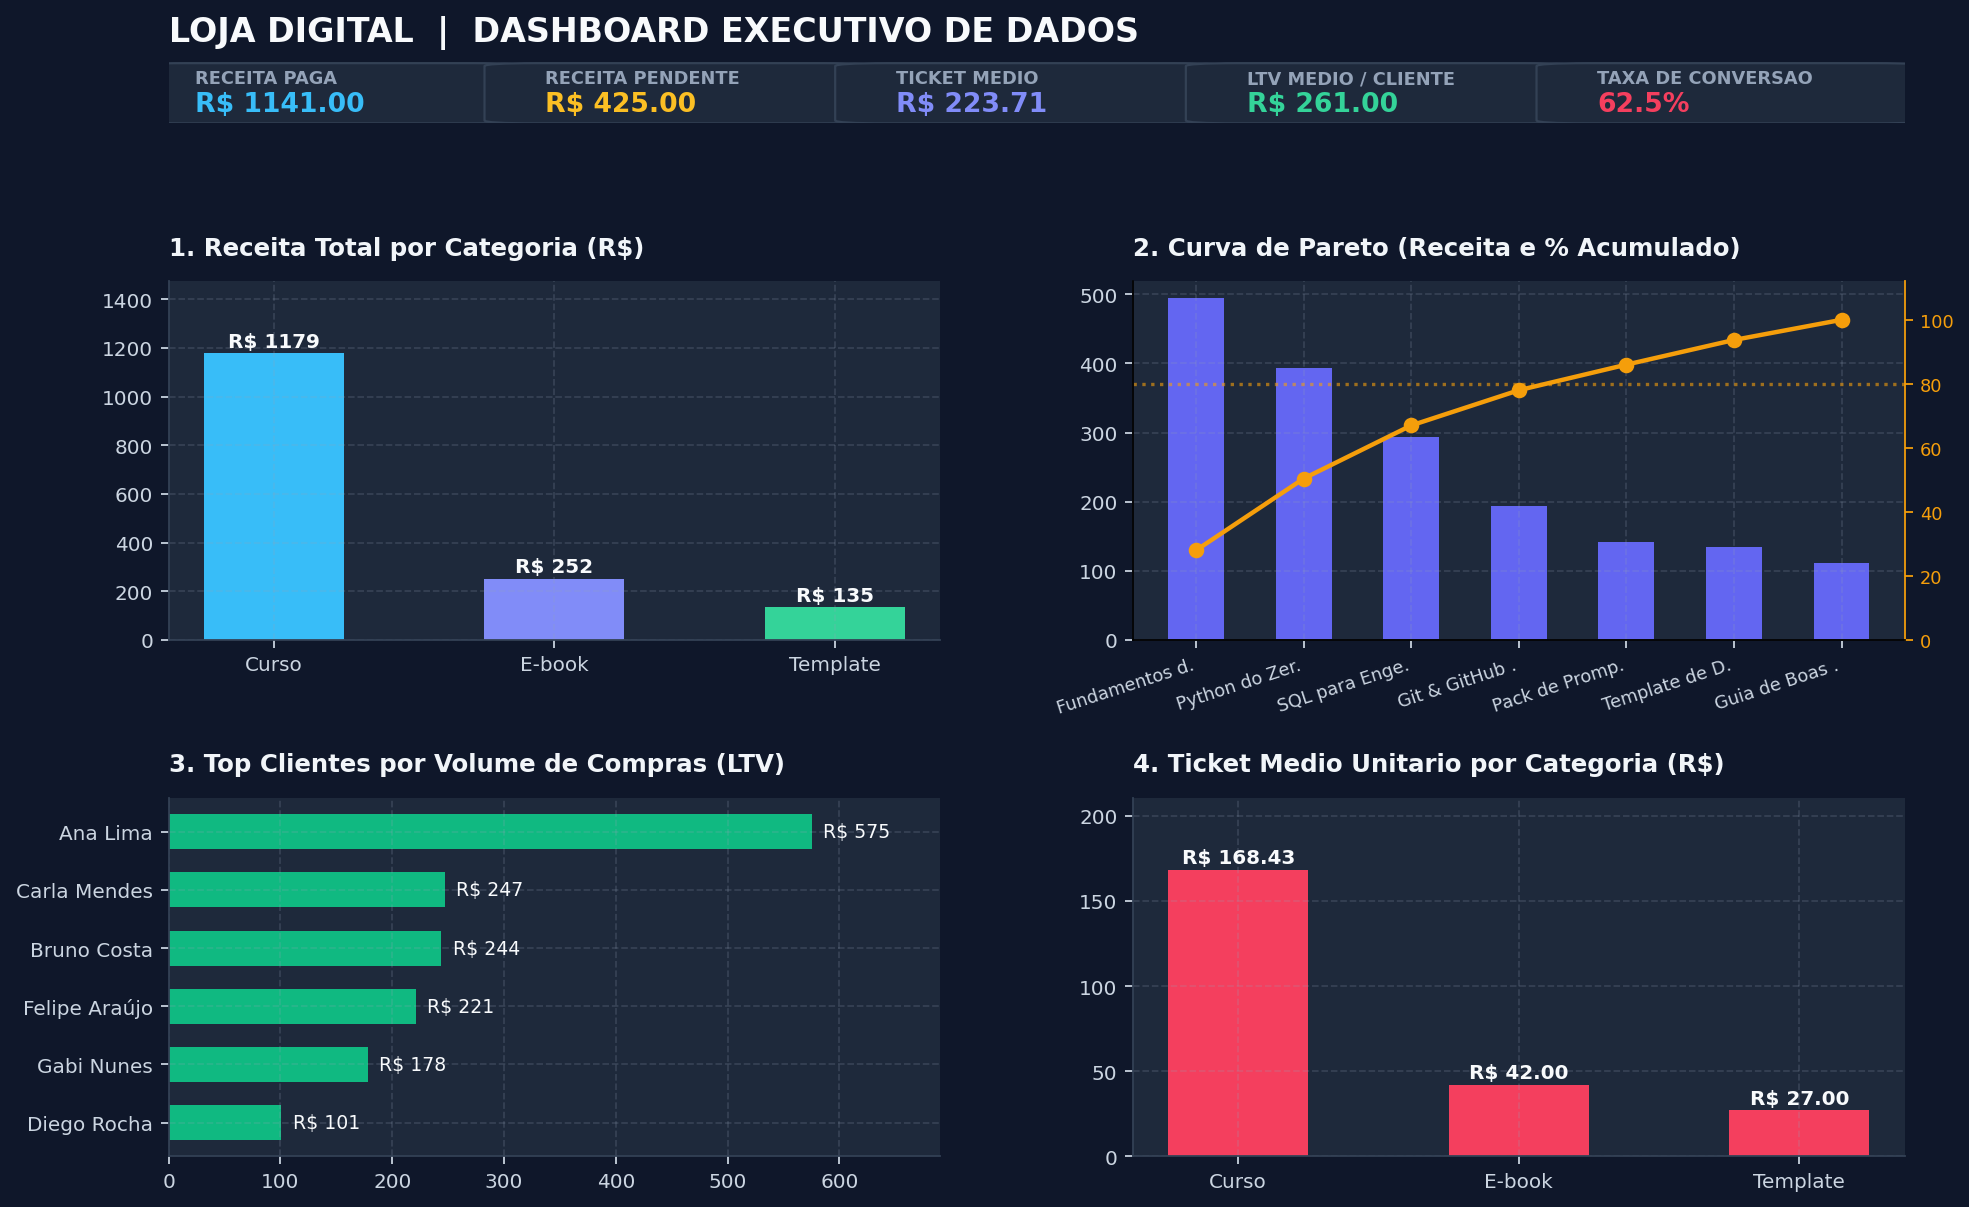
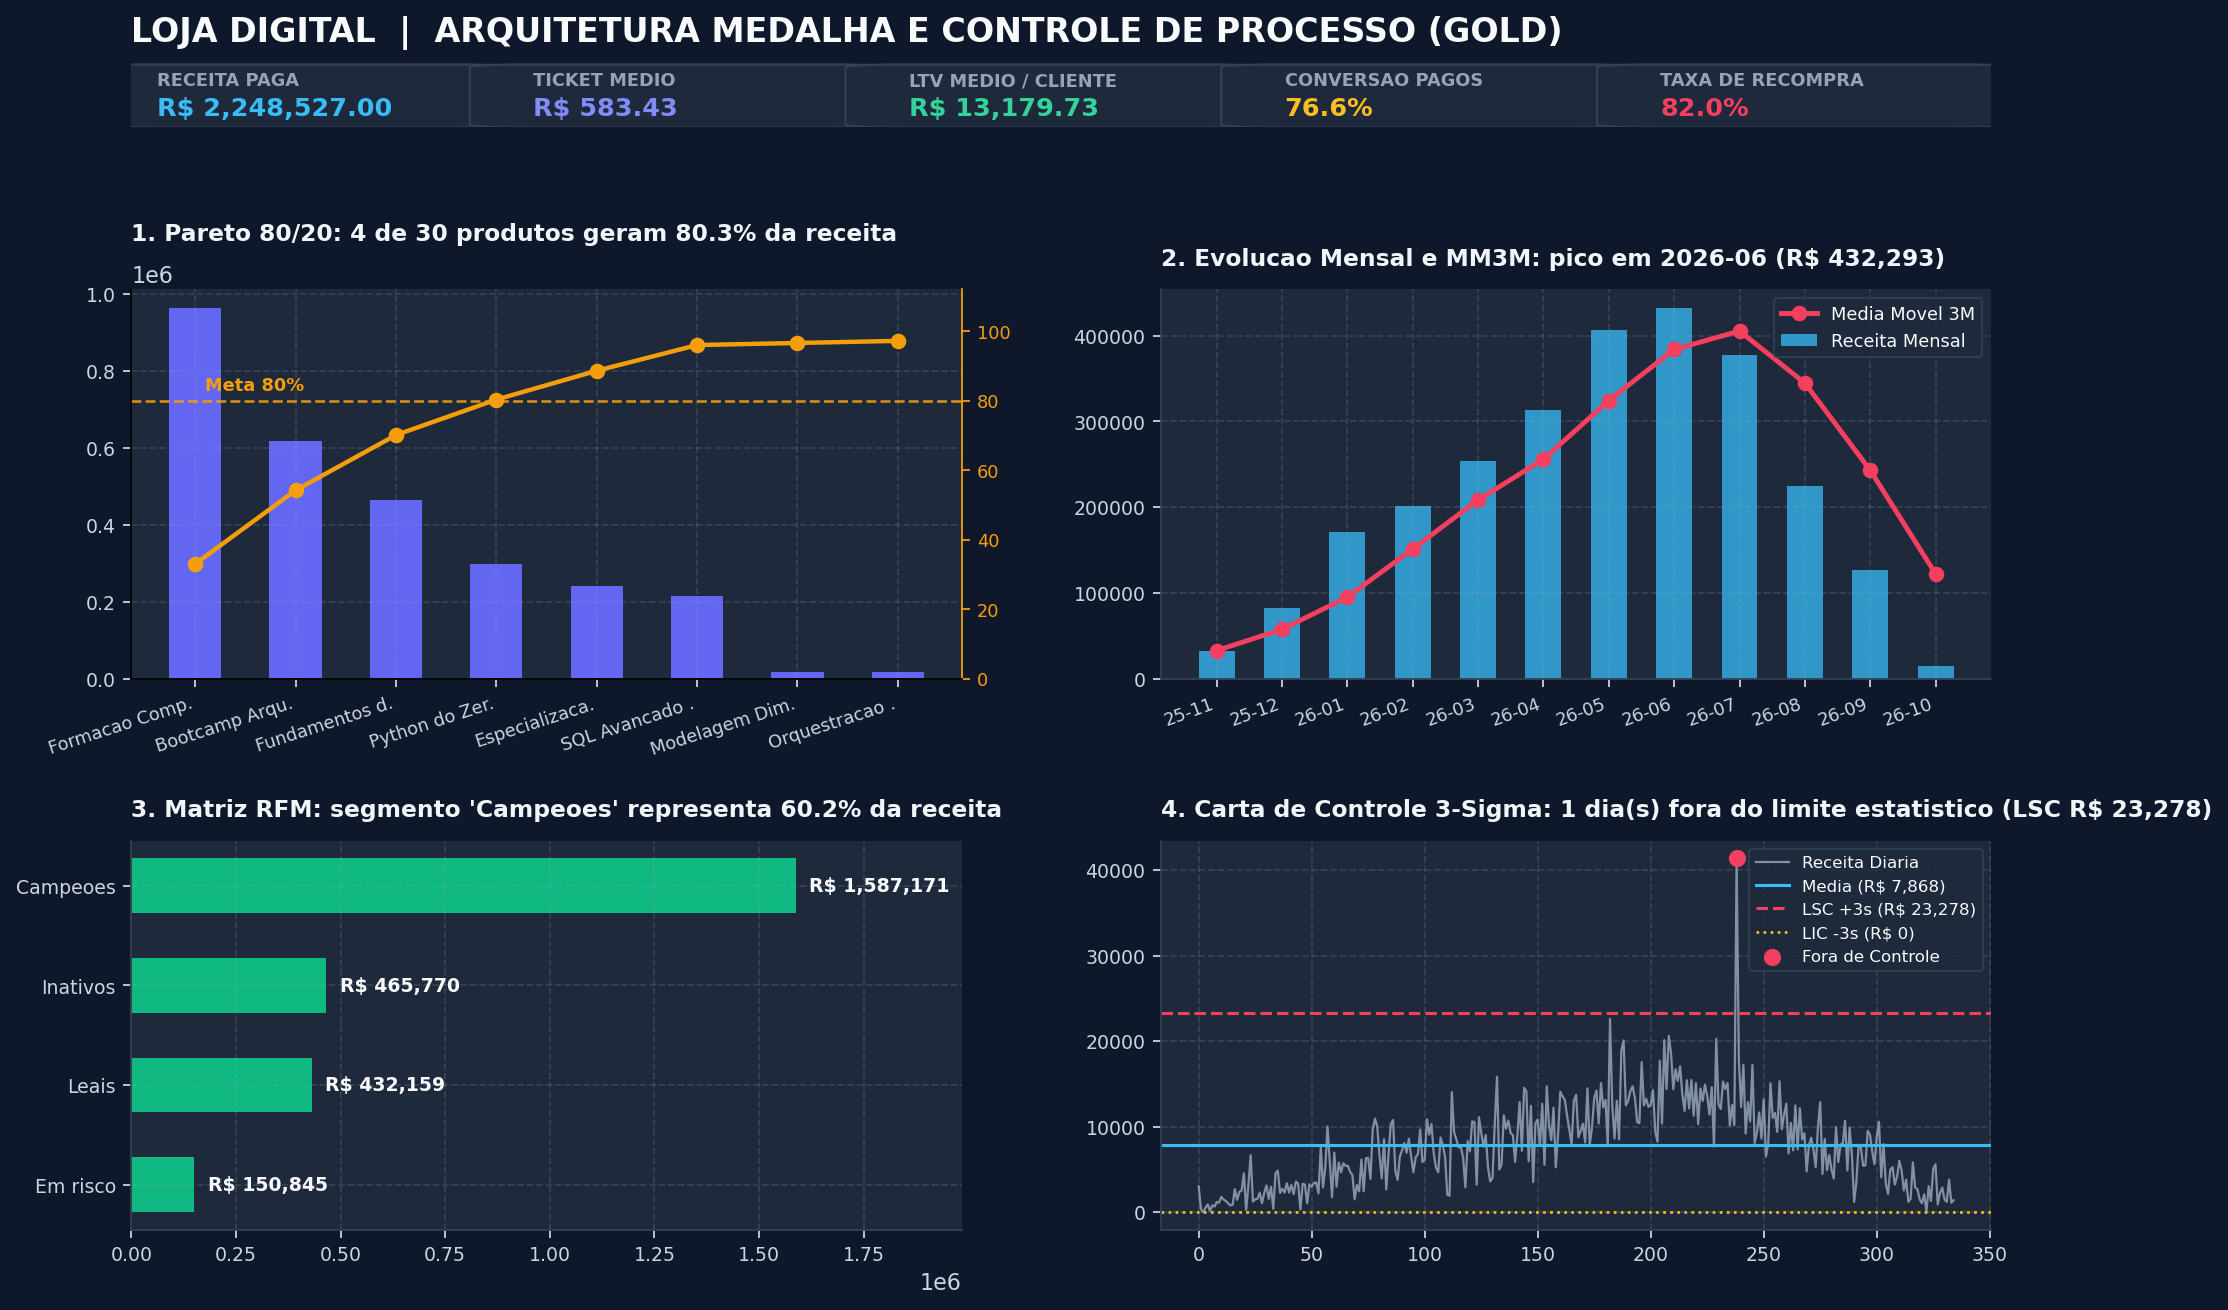
style(lint): organiza imports e atualiza dashboard executivo

diff --git a/src/pipeline/gerar_dados.py b/src/pipeline/gerar_dados.py
@@ -4,11 +4,12 @@ Injeta entre 1% e 3% de anomalias controladas para validacao na camada Silver.
 """
 
 import csv
-from datetime import date, timedelta
 import logging
 import os
 import random
+from datetime import date, timedelta
 from typing import Any
+
 from faker import Faker
 
 logger = logging.getLogger(__name__)
@@ -82,8 +83,10 @@ def gerar_arquivos_raw(
 
     for cid in range(1, num_clientes + 1):
         nome = fake.name()
-        primeiro = nome.split()[0].lower()
-        email = f"{primeiro}.{cid}@exemplo.com.br"
+        letras_ascii = "".join(
+            ch for ch in nome.lower() if "a" <= ch <= "z"
+        )[:10] or "cliente"
+        email = f"{letras_ascii}.{cid}@exemplo.com.br"
         emails_usados.add(email)
         dias_offset = rng.randint(0, 180)
         criado_em = (data_base_cadastro + timedelta(days=dias_offset)).isoformat()
@@ -137,8 +140,8 @@ def gerar_arquivos_raw(
 
     # Perfis de frequencia dos clientes para RFM e Coorte realistas
     clientes_vips = list(range(1, int(num_clientes * 0.20) + 1))
-    clientes_regulares = list(range(int(num_clientes * 0.20) + 1, int(num_clientes * 0.70) + 1))
-    clientes_ocasionais = list(range(int(num_clientes * 0.70) + 1, num_clientes + 1))
+    clientes_regulares = list(range(int(num_clientes * 0.20) + 1, int(num_clientes * 0.82) + 1))
+    clientes_compra_unica = list(range(int(num_clientes * 0.82) + 1, num_clientes + 1))
 
     ids_produtos_validos = list(range(1, len(CATALOGO_PRODUTOS_BASE) + 1))
     item_id_seq = 1
@@ -149,12 +152,12 @@ def gerar_arquivos_raw(
 
     for pid in range(1, num_pedidos + 1):
         sorteio_grupo = rng.random()
-        if sorteio_grupo < 0.50:
+        if sorteio_grupo < 0.52 or not clientes_regulares:
             cid = rng.choice(clientes_vips)
-        elif sorteio_grupo < 0.85:
+        elif sorteio_grupo < 0.96 or not clientes_compra_unica:
             cid = rng.choice(clientes_regulares)
         else:
-            cid = rng.choice(clientes_ocasionais)
+            cid = clientes_compra_unica.pop(0)
 
         dia_offset = int(rng.triangular(0, total_dias, total_dias * 0.65))
         data_ped = (inicio_pedidos + timedelta(days=dia_offset)).isoformat()

diff --git a/src/main.py b/src/main.py
@@ -9,11 +9,10 @@ import sys
 
 sys.path.insert(0, os.path.dirname(os.path.abspath(__file__)))
 
+import relatorios
 from database import CAMINHO_BANCO, conectar, criar_banco
 from pipeline.executar import run_pipeline
 from pipeline.gold import construir_gold
-import relatorios
-
 
 OPCOES = {
     "1": ("Listar todos os produtos", relatorios.relatorio_produtos),
@@ -75,7 +74,7 @@ def _banco_possui_pipeline() -> bool:
         total = conn.execute("SELECT COUNT(*) FROM pedidos").fetchone()[0]
         conn.close()
         return int(total) > 50
-    except Exception:
+    except Exception:  # noqa: BLE001
         return False
 
 
@@ -101,7 +100,7 @@ def main(argv: list[str] | None = None) -> None:
 
     try:
         conn = conectar()
-    except Exception:
+    except Exception:  # noqa: BLE001
         print("[ERRO] Nao foi possivel conectar ao banco. Encerrando.")
         sys.exit(1)
 
@@ -127,7 +126,7 @@ def main(argv: list[str] | None = None) -> None:
 
             try:
                 funcao(conn)
-            except Exception as erro:
+            except Exception as erro:  # noqa: BLE001
                 print(f"\n  [ERRO] Falha ao gerar relatorio: {erro}")
 
     finally:

diff --git a/src/pipeline/bronze.py b/src/pipeline/bronze.py
@@ -4,10 +4,10 @@ Adiciona apenas metadados de auditoria (_ingested_at e _source_file).
 """
 
 import csv
-from datetime import datetime, timezone
 import logging
 import os
 import sqlite3
+from datetime import UTC, datetime
 
 logger = logging.getLogger(__name__)
 
@@ -26,7 +26,7 @@ def carregar_bronze(
     with open(_SQL_BRONZE, "r", encoding="utf-8") as f:
         conn.executescript(f.read())
 
-    instante_ingestao = datetime.now(timezone.utc).strftime("%Y-%m-%dT%H:%M:%SZ")
+    instante_ingestao = datetime.now(UTC).strftime("%Y-%m-%dT%H:%M:%SZ")
 
     mapeamento = [
         (

diff --git a/src/pipeline/qualidade.py b/src/pipeline/qualidade.py
@@ -4,11 +4,11 @@ Cada regra possui funcao isolada para facilitar testes unitarios e auditoria.
 """
 
 import csv
-from datetime import date
 import logging
 import os
 import re
 import sqlite3
+from datetime import date
 from typing import Any
 
 logger = logging.getLogger(__name__)

diff --git a/src/pipeline/gold.py b/src/pipeline/gold.py
@@ -8,6 +8,7 @@ import logging
 import os
 import sqlite3
 from typing import Any
+
 import pandas as pd
 
 logger = logging.getLogger(__name__)
